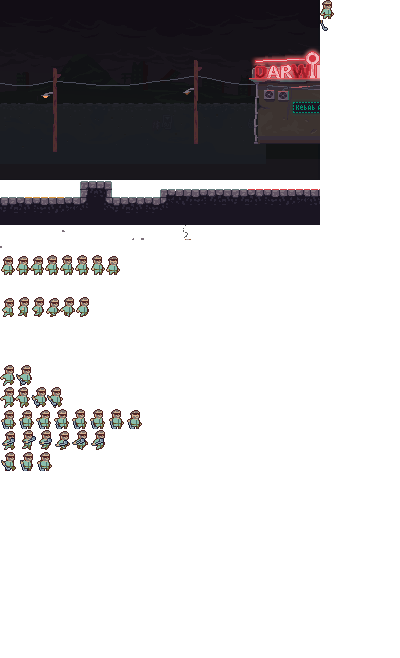
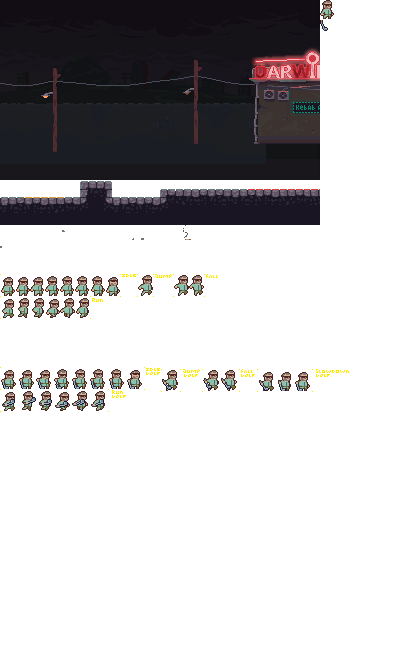
Change collider offset per sprite, improve atlas readability

diff --git a/src/level.cpp b/src/level.cpp
@@ -16,6 +16,29 @@ void createBlockAtPosition(IVec2 position)
     getComponentFromEntity<RectColliderComponent>(block)->isLevelGeometry = true;
 }
 
+void overrideColliderOffsetsBasedOnCurrentSprite()
+{
+    static const IVec2 k_emptyIVec = { 0,0 };
+
+    for (Entity& entity : getAllEntities())
+    {
+        if (entity.id == k_invalidId)
+        {
+            continue;
+        }
+
+        if (!entityHasComponent<SpriteComponent>(entity) ||
+            !(getComponentFromEntity<SpriteComponent>(entity)->collidertopLeftPointOffset.x > 0) ||
+            !(getComponentFromEntity<SpriteComponent>(entity)->collidertopLeftPointOffset.y > 0) ||
+            !entityHasComponent<RectColliderComponent>(entity))
+        {
+            continue;
+        }
+
+        getComponentFromEntity<RectColliderComponent>(entity)->collider.topLeftPointOffset = getComponentFromEntity<SpriteComponent>(entity)->collidertopLeftPointOffset;
+    }
+}
+
 void ECSLevel::start()
 {
 	_renderingSystem.createLightsBuffers();
@@ -33,7 +56,7 @@ void ECSLevel::start()
     movementComponent->airFriction = 2.f;
 
     playerSprite->setupSpriteForLayer(CHARACTER_SPRITE, CHARACTER_LAYER);
-    addComponentToEntity<RectColliderComponent>(player)->collider = RectCollider({ 3, 3 }, { 9, 17 });
+    addComponentToEntity<RectColliderComponent>(player)->collider = RectCollider({ 4, 4 }, { 9, 17 });
 
     Entity& bg = addEntity();
     addComponentToEntity<SpriteComponent>(bg)->setupSpriteForLayer(TODO_REMOVE_BG_SPRITE, BEHIND_CHAR_LAYER);
@@ -168,6 +191,7 @@ void ECSLevel::update()
     getComponentFromEntity<TransformComponent>(lightThatFollowsPlayer)->position = targetPos;
 
 	_savePositionSystem.update();
+    overrideColliderOffsetsBasedOnCurrentSprite();
 	_characterMovementSystem.update();
     _animationSystem.update();
 
@@ -187,6 +211,7 @@ void ECSLevel::imguiRender()
     Entity& player = getEntityById(k_playerEntityId);
 
     auto* movement = getComponentFromEntity<MovementComponent>(player);
+    auto* collider = getComponentFromEntity<RectColliderComponent>(player);
 
     ImGui::SeparatorText("Horizontal");
 
@@ -206,6 +231,9 @@ void ECSLevel::imguiRender()
 
     ImGui::Text("Character state: %s", movement->getMovementStateAsString());
 
+    ImGui::Text("Player Collider X Offset: %i", collider->collider.topLeftPointOffset.x);
+    ImGui::Text("Player Collider Y Offset: %i", collider->collider.topLeftPointOffset.y);
+
     ImGui::Text("Player timeSinceLeftPlatform: %f", movement->timeSinceLeftPlatform);
     ImGui::Text("Player Speed X: %f", getComponentFromEntity<MovementComponent>(player)->currentSpeed.x);
     ImGui::Text("Player Speed Y: %f", getComponentFromEntity<MovementComponent>(player)->currentSpeed.y);
@@ -214,9 +242,6 @@ void ECSLevel::imguiRender()
 
     ImGui::Checkbox("Debug colliders", &s_debugCollidersEnabled);
     ImGui::Checkbox("Debug grid", &s_debugGridEnabled);
-
-    ImGui::Text("Mouse X: %i", (int)s_mousePositionThisFrame.x);
-    ImGui::Text("Mouse Y: %i", (int)s_mousePositionThisFrame.y);
 
     ImGuiIO& io = ImGui::GetIO();
     ImGui::Text("Average %.1f FPS", io.Framerate);

diff --git a/src/renderingSystems.cpp b/src/renderingSystems.cpp
@@ -592,25 +592,32 @@ void CharacterMovementSystem::update()
 		resetScaleLerp = 0.3f;
 	}
 
+	//TODO: remove later
+	static bool hasGolf = false;
+	if (_wasKeyPressedThisFrame(SDL_SCANCODE_K))
+	{
+		hasGolf = !hasGolf;
+	}
+
 	switch (movementComponent->movementState)
 	{
 	case IDLE_STATE:
-		spriteComponent->setAnimationToPlayIfNotPlaying(CHARACTER_WEAPON_GOLF_IDLE_SPRITE, true, 70, 600);
+		spriteComponent->setAnimationToPlayIfNotPlaying(hasGolf ? CHARACTER_WEAPON_GOLF_IDLE_SPRITE : CHARACTER_IDLE_SPRITE, true, 70, 600);
 		break;
 	case TAKE_OFF_STATE:
-		spriteComponent->setAnimationToPlayIfNotPlaying(CHARACTER_WEAPON_GOLF_TAKEOFF_SPRITE, false, 60, 60);
+		spriteComponent->setAnimationToPlayIfNotPlaying(hasGolf ? CHARACTER_WEAPON_GOLF_TAKEOFF_SPRITE : CHARACTER_TAKEOFF_SPRITE, false, 60, 60);
 		break;
 	case RUNNING_STATE:
-		spriteComponent->setAnimationToPlayIfNotPlaying(CHARACTER_WEAPON_GOLF_RUN_SPRITE, true, 70, 70);
+		spriteComponent->setAnimationToPlayIfNotPlaying(hasGolf ? CHARACTER_WEAPON_GOLF_RUN_SPRITE : CHARACTER_RUN_SPRITE, true, 70, 70);
 		break;
 	case SLOWDOWN_STATE:
-		spriteComponent->setAnimationToPlayIfNotPlaying(CHARACTER_WEAPON_GOLF_SLOWDOWN_SPRITE, false, 70, 70);
+		spriteComponent->setAnimationToPlayIfNotPlaying(hasGolf ? CHARACTER_WEAPON_GOLF_SLOWDOWN_SPRITE : CHARACTER_RUN_SPRITE, false, 70, 70);
 		break;
 	case JUMPING_STATE:
-		spriteComponent->setAnimationToPlayIfNotPlaying(CHARACTER_WEAPON_GOLF_JUMP_SPRITE, true, 70, 70);
+		spriteComponent->setAnimationToPlayIfNotPlaying(hasGolf ? CHARACTER_WEAPON_GOLF_JUMP_SPRITE : CHARACTER_JUMP_SPRITE, true, 70, 70);
 		break;
 	case FALLING_STATE:
-		spriteComponent->setAnimationToPlayIfNotPlaying(CHARACTER_WEAPON_GOLF_FALL_SPRITE, false, 70, 70);
+		spriteComponent->setAnimationToPlayIfNotPlaying(hasGolf ? CHARACTER_WEAPON_GOLF_FALL_SPRITE : CHARACTER_FALL_SPRITE, false, 70, 70);
 		break;
 	}
 }

diff --git a/src/renderingComponents.h b/src/renderingComponents.h
@@ -80,6 +80,10 @@ struct SpriteComponent
 	// Container for the animation data of this sprite (speed, should loop, etc)
 	AnimationData animationData;
 
+	// To have more control per sprite basis, allow having a collider offset override.
+	// This will override the RectColliderComponent collider.topLeftPointOffset of the entity
+	IVec2 collidertopLeftPointOffset = {0,0};
+
 	bool flipX = false;
 };
 

diff --git a/src/core/app.cpp b/src/core/app.cpp
@@ -175,7 +175,6 @@ void App::initImgui()
     ImGui_ImplSDLRenderer3_Init(s_renderer);
 
     ImGuiIO& io = ImGui::GetIO();
-    io.ConfigFlags |= ImGuiConfigFlags_NavEnableKeyboard;
     io.ConfigFlags |= ImGuiConfigFlags_DockingEnable;
     io.DisplaySize = ImVec2(static_cast<float>(k_displayWindowWidth), static_cast<float>(k_displayWindowHeight));
 }
